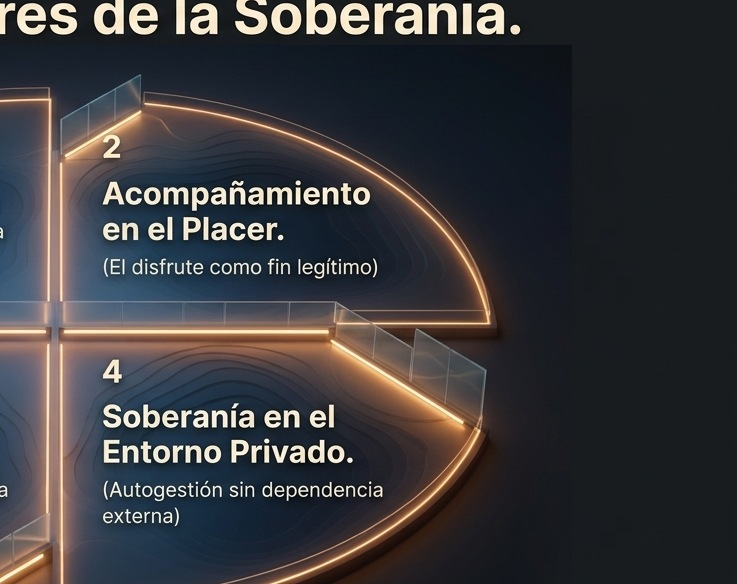
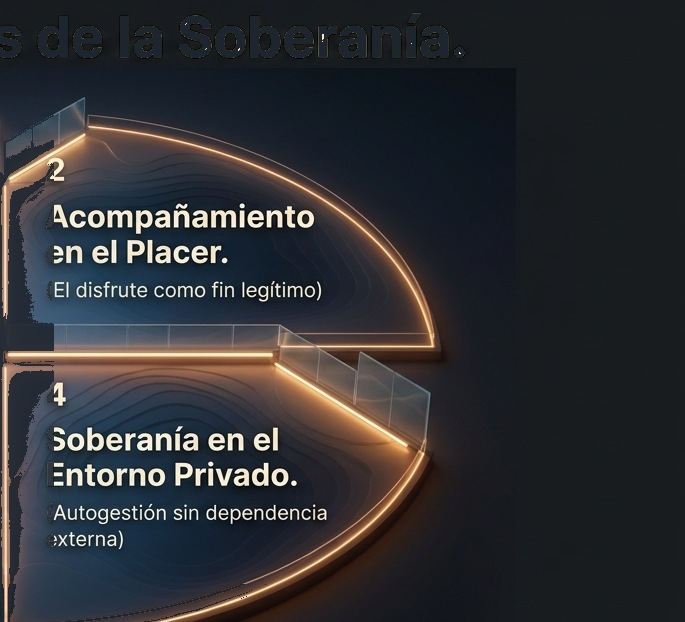
Explorar Temas: la esfera vuelve. Solo salen las letras. El fondo queda detrás.

diff --git a/src/index.css b/src/index.css
@@ -107,7 +107,7 @@
 }
 .will-photo-topics {
   animation-name: will-space-unfold-chat;
-  filter: brightness(0.55) saturate(0.68) contrast(0.95);
+  filter: brightness(0.7) saturate(0.78) contrast(0.96);
 }
 @keyframes will-space-unfold-chat {
   from {
@@ -145,9 +145,9 @@
 .will-veil-topics {
   background: linear-gradient(
     90deg,
-    rgba(7, 8, 10, 0.66) 0%,
-    rgba(7, 8, 10, 0.54) 50%,
-    rgba(7, 8, 10, 0.44) 100%
+    rgba(7, 8, 10, 0.58) 0%,
+    rgba(7, 8, 10, 0.46) 48%,
+    rgba(7, 8, 10, 0.36) 100%
   );
 }
 .will-veil-resources,

diff --git a/src/components/visual/SpaceShell.tsx b/src/components/visual/SpaceShell.tsx
@@ -18,8 +18,8 @@ const SCENE: Record<
     marks: [],
   },
   topics: {
-    photo: '/visual-system/interior-page05.jpg?v=txt3',
-    position: '52% 48%',
+    photo: '/visual-system/interior-page05.jpg?v=esfera1',
+    position: '68% 46%',
     marks: [],
   },
   resources: {
